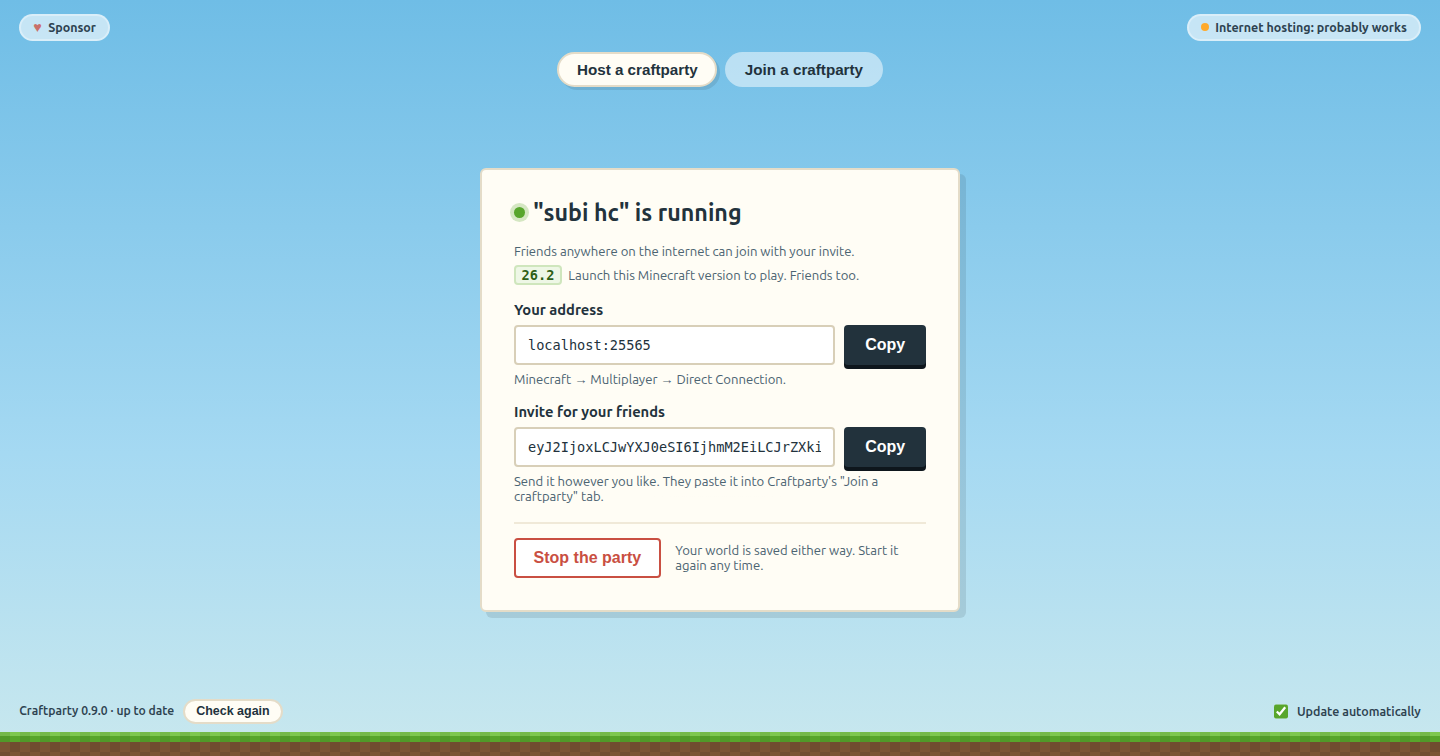
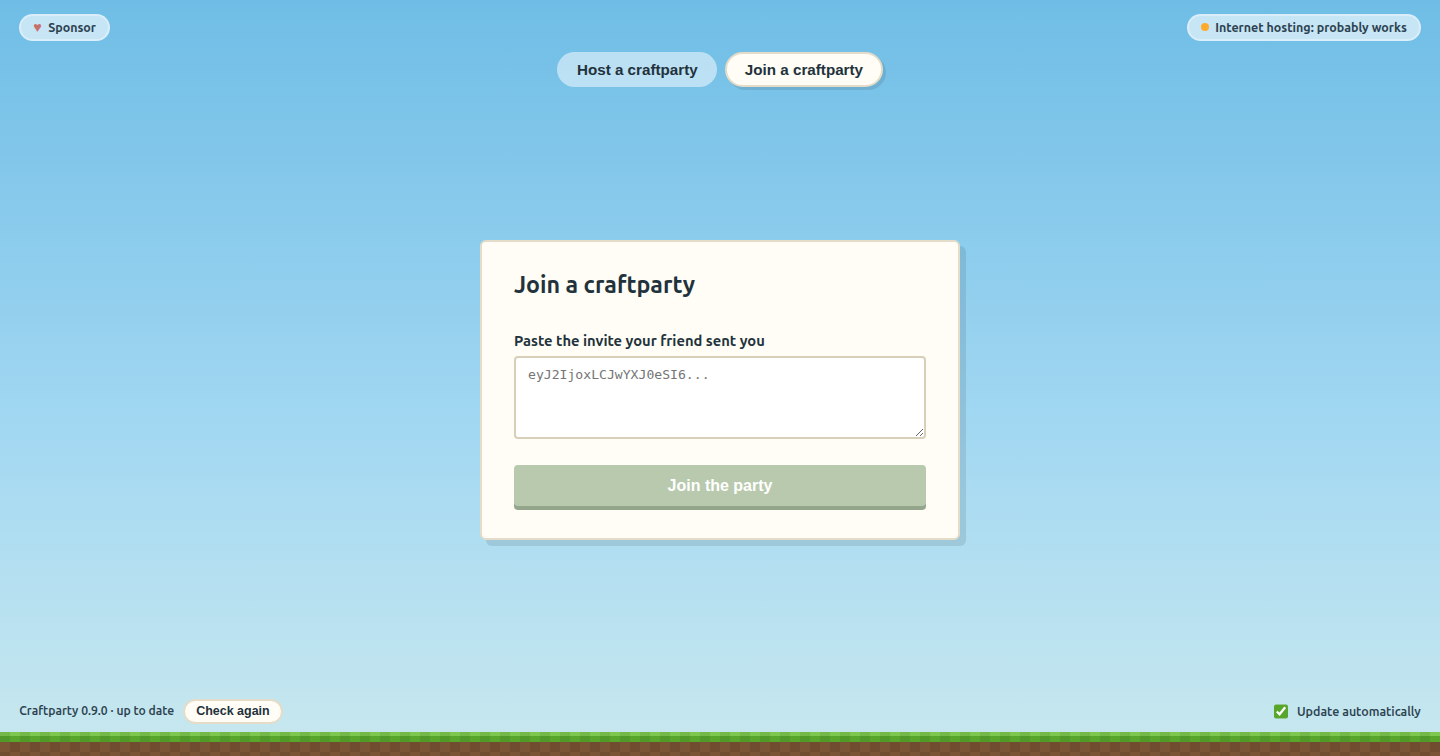
Show the Host and Join screens on the website, not a running world
The hero showed the app mid-party, with a world called "subi hc" and an
invite code on screen. That was a capture of a real world of the
author's, not something to put in front of the public, and it also
showed the one screen a new person never sees first.

The hero is now the two screens they do meet: Host a craftparty and Join
a craftparty, side by side as they look on a fresh install, with no saved
worlds and no remembered parties. Both are captured at the same size so
they sit level, and stack on narrow screens. The link preview is the Join
screen, the one that fits a social card's shape without scrolling.

The capture script's stub data no longer contains the real world name
anywhere, so no scene it can render will bring it back.

Changed region(s): [[0.3125, 0.213, 0.6875, 0.8214], [0.375, 0.0608, 0.625, 0.1217]]

diff --git a/app/page.tsx b/app/page.tsx
@@ -1,10 +1,11 @@
 import Image from "next/image";
 import Link from "next/link";
 import DownloadButton, { RELEASES_URL } from "./download-button";
-// A real capture of the app, taken through Electron itself. See the
-// capture script in the repo's tooling. Statically imported so Next knows
-// its dimensions and the hero never shifts while it loads.
-import appShot from "./craftparty-app.png";
+// Real captures of the app, taken through Electron itself by
+// host-app/screenshots/capture.cjs. Statically imported so Next knows
+// their dimensions and the hero never shifts while they load.
+import hostShot from "./craftparty-host.png";
+import joinShot from "./craftparty-join.png";
 
 const SPONSORS_URL = "https://github.com/sponsors/marclundgren";
 
@@ -56,13 +57,20 @@ export default function Home() {
                 own Minecraft Java Edition
               </p>
             </div>
-            {/* The whole app, actual size. A download page should show
-                what you are downloading. */}
-            <div className="hero-shot">
+            {/* The two screens a new person meets, as the app looks on a
+                fresh install. A download page should show what you are
+                downloading. */}
+            <div className="hero-shots">
               <Image
-                src={appShot}
-                alt="The Craftparty app with a world called “subi hc” running, showing the address to connect to and an invite code to send to friends."
-                sizes="(max-width: 64rem) 92vw, 60rem"
+                src={hostShot}
+                alt="The Host a craftparty screen: name your world, pick a difficulty and seed, and press Start my world."
+                sizes="(max-width: 40rem) 92vw, 30rem"
+                priority
+              />
+              <Image
+                src={joinShot}
+                alt="The Join a craftparty screen: paste the invite your friend sent you and press Join the party."
+                sizes="(max-width: 40rem) 92vw, 30rem"
                 priority
               />
             </div>

diff --git a/host-app/screenshots/mock-bridge.js b/host-app/screenshots/mock-bridge.js
@@ -3,8 +3,9 @@
  * be driven without a real party running. Used only by the screenshot
  * capture. It is never bundled into the app.
  *
- * Query string picks the scene: ?s=running|join, ?net=<verdict>,
- * ?worlds=N, ?parties=N.
+ * Query string picks the scene: ?s=host|join|running, ?net=<verdict>,
+ * ?worlds=N, ?parties=N. With no ?s the host form is shown as it is on
+ * first launch.
  */
 (() => {
 // Stub of the preload bridge, for laying the UI out in a browser.
@@ -13,7 +14,7 @@ const N = (k, d) => Number(P.get(k) ?? d);
 
 const worlds = Array.from({ length: N("worlds", 3) }, (_, i) => ({
   id: `world-${i}`,
-  name: ["subi hc", "Dragon Cave", "Skyblock Redux", "Test", "Old One", "Sixth"][i] ?? `World ${i}`,
+  name: ["Castle Hill", "Dragon Cave", "Skyblock Redux", "Test", "Old One", "Sixth"][i] ?? `World ${i}`,
   lastPlayedAt: new Date(Date.now() - i * 86400000).toISOString(),
   sizeBytes: 12_000_000 * (i + 1),
   minecraftVersion: "26.2",
@@ -57,7 +58,7 @@ window.craftparty = {
   startParty: async () => ({
     inviteCode: "eyJ2IjoxLCJwYXJ0eSI6IjhmM2EiLCJrZXkiOiJhYmNkZWZnaGlqa2xtbm9wIn0",
     port: 25565,
-    worldName: "subi hc",
+    worldName: "Castle Hill",
     remote: true,
     minecraftVersion: "26.2",
   }),
@@ -106,7 +107,7 @@ addEventListener("load", () => {
       eula.checked = true;
       eula.dispatchEvent(new Event("change"));
       const name = document.getElementById("world-name");
-      name.value = "subi hc";
+      name.value = "Castle Hill";
       name.dispatchEvent(new Event("input"));
       document.getElementById("start").click();
     }

diff --git a/app/globals.css b/app/globals.css
@@ -143,13 +143,17 @@ a {
   max-width: 40rem;
 }
 
-/* Framed like the cards further down the page, so it reads as a window
-   standing in the sky rather than a screenshot pasted over it. */
-.hero-shot {
+/* Framed like the cards further down the page, so they read as two
+   windows standing in the sky rather than screenshots pasted over it.
+   Both are captured at the same size, so they sit level in a pair. */
+.hero-shots {
+  display: grid;
+  grid-template-columns: repeat(auto-fit, minmax(18rem, 1fr));
+  gap: 1.5rem;
   margin-top: 2.75rem;
 }
 
-.hero-shot img {
+.hero-shots img {
   display: block;
   width: 100%;
   height: auto;

diff --git a/host-app/screenshots/README.md b/host-app/screenshots/README.md
@@ -7,12 +7,16 @@ so they can't drift from it. Regenerate them whenever the UI changes:
 npm run screenshots
 ```
 
-(from `host-app/`). It writes two files:
+(from `host-app/`). It writes three files:
 
 | File | Used for |
 | --- | --- |
-| `app/craftparty-app.png` | the picture in the website's hero |
+| `app/craftparty-host.png` | the Host screen, in the website's hero |
+| `app/craftparty-join.png` | the Join screen, beside it |
 | `app/opengraph-image.png` | the link preview, via Next's `opengraph-image` file convention |
+
+Every scene is a fresh install with invented data. Nothing captured here
+is anyone's real world or invite.
 
 ## How it works
 
@@ -22,7 +26,7 @@ that isn't running. Electron then loads each scene offscreen, so nothing
 appears on your desktop, and writes the captured page to a PNG.
 
 Scenes are chosen with the query string the mock understands:
-`?s=running|join`, `?net=independent|independent-maybe|assisted|error`,
+`?s=host|join|running`, `?net=independent|independent-maybe|assisted|error`,
 `?worlds=N`, `?parties=N`. Add an entry to `SHOTS` in `capture.cjs` to
 capture another one.
 
